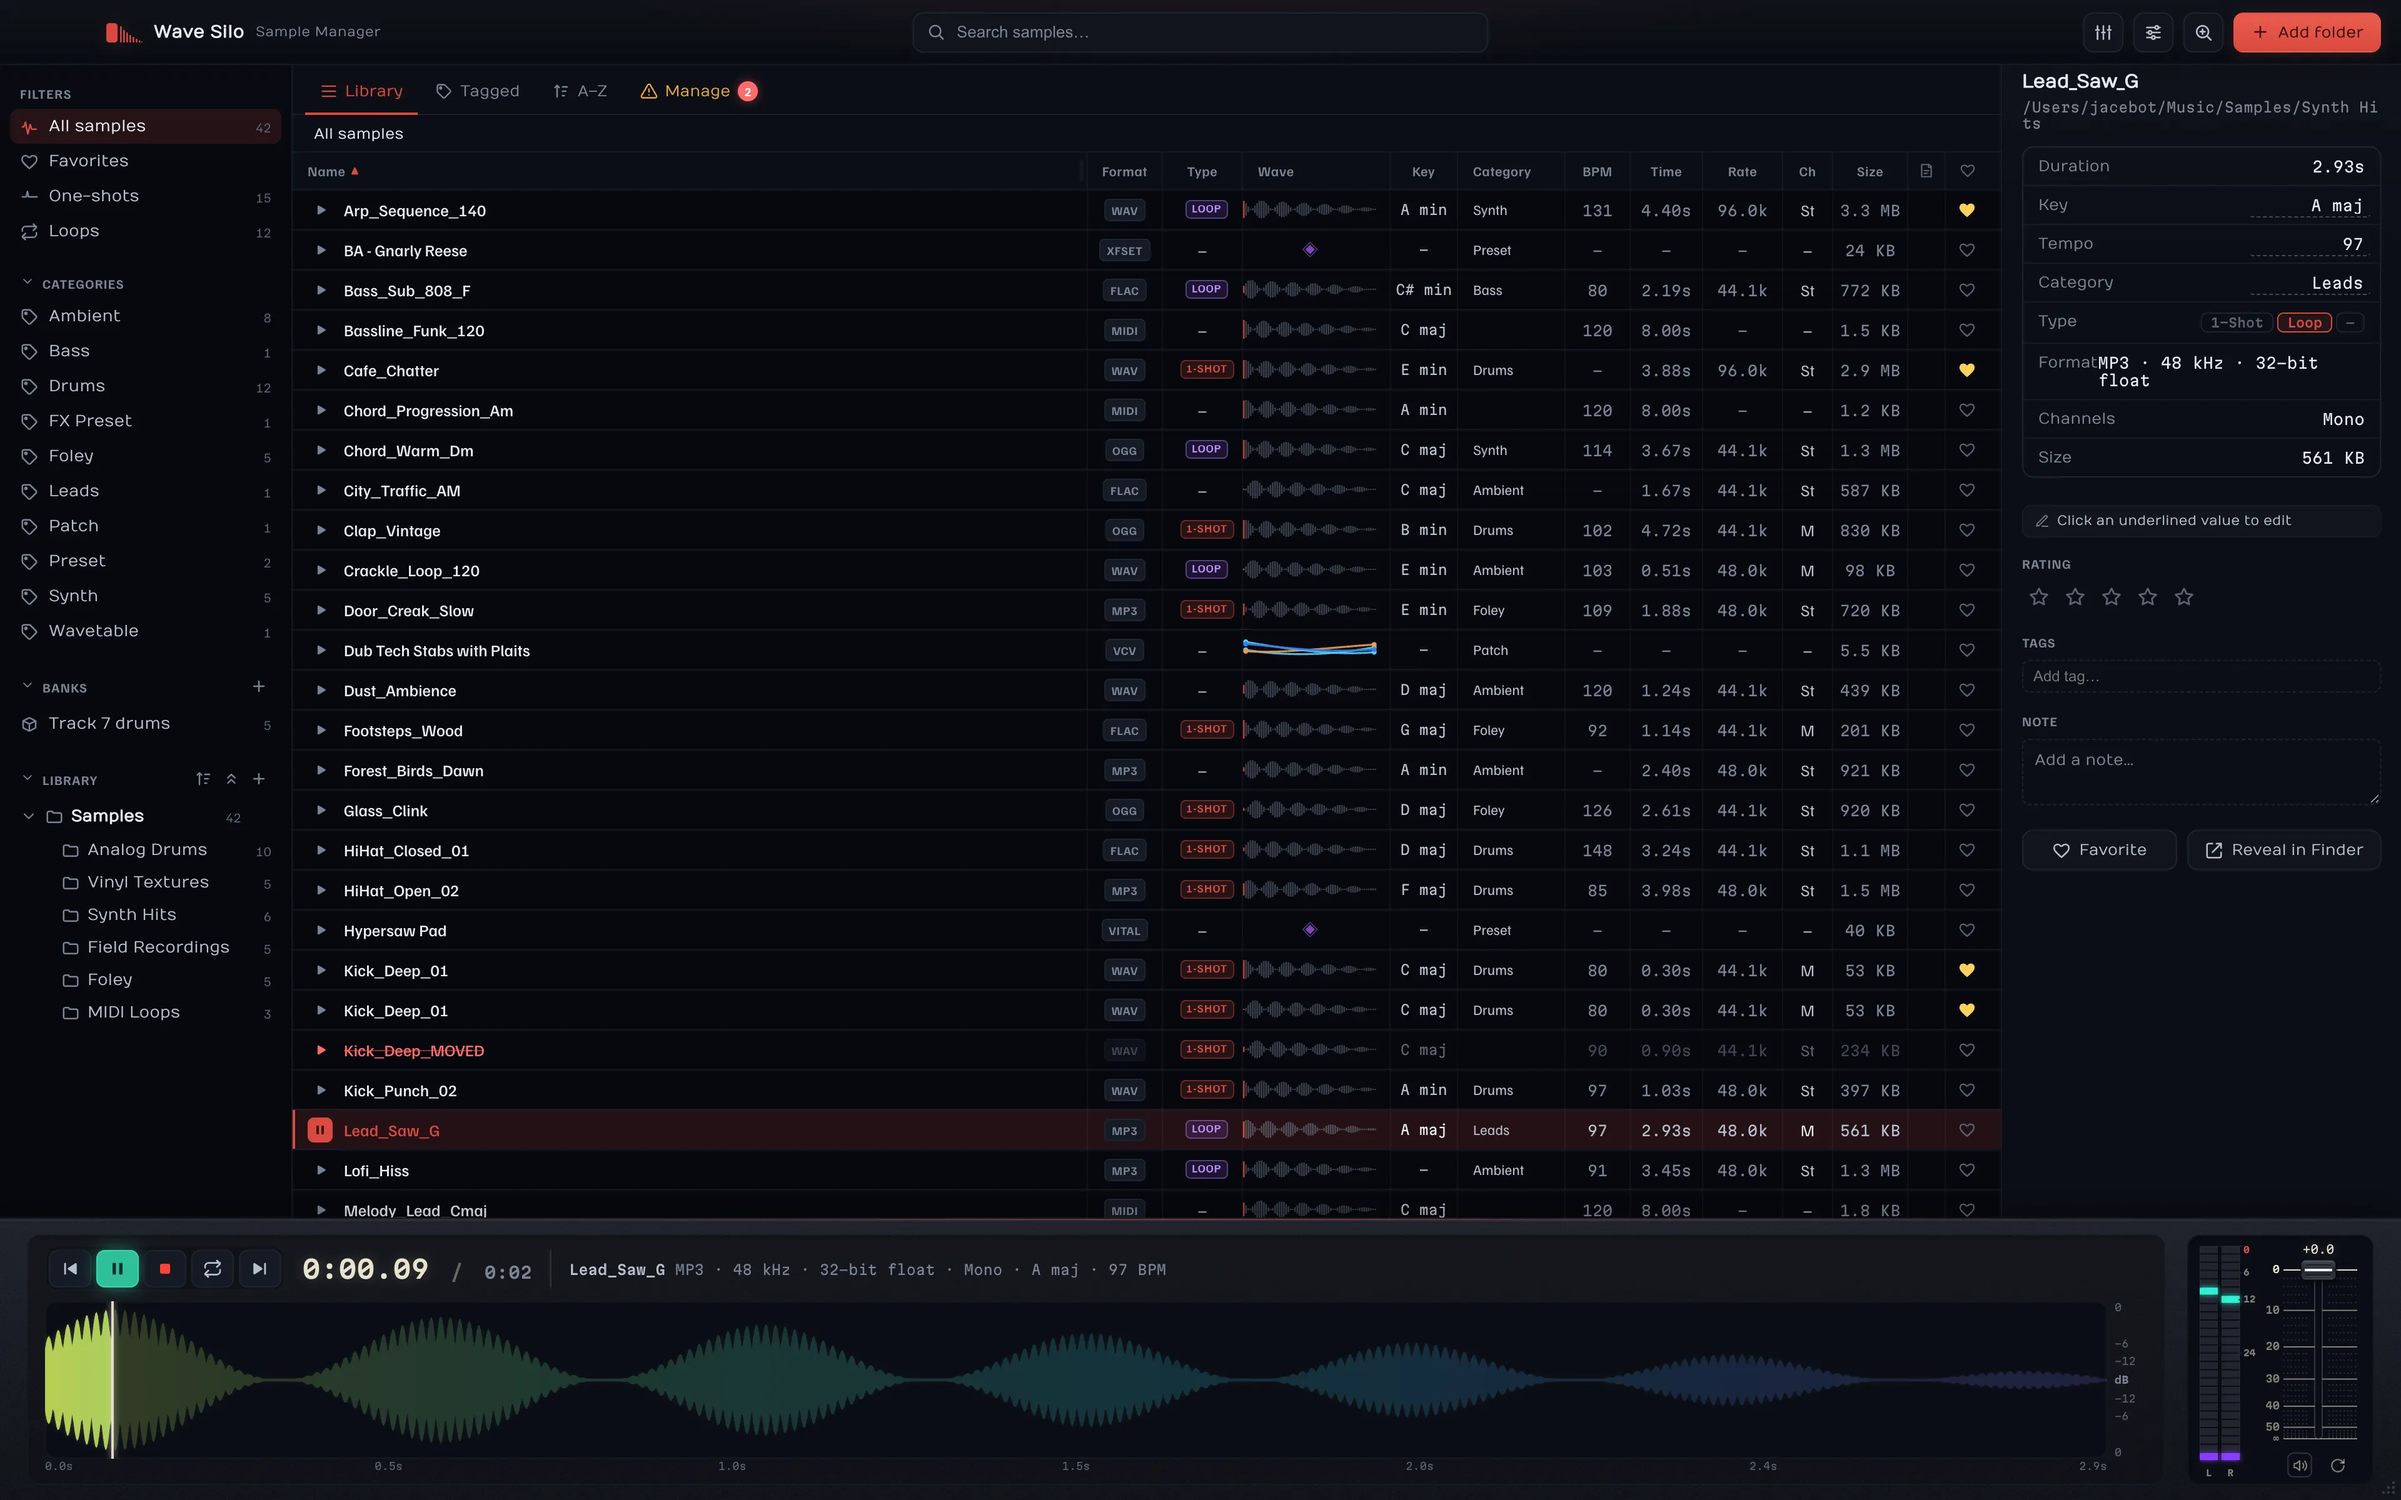
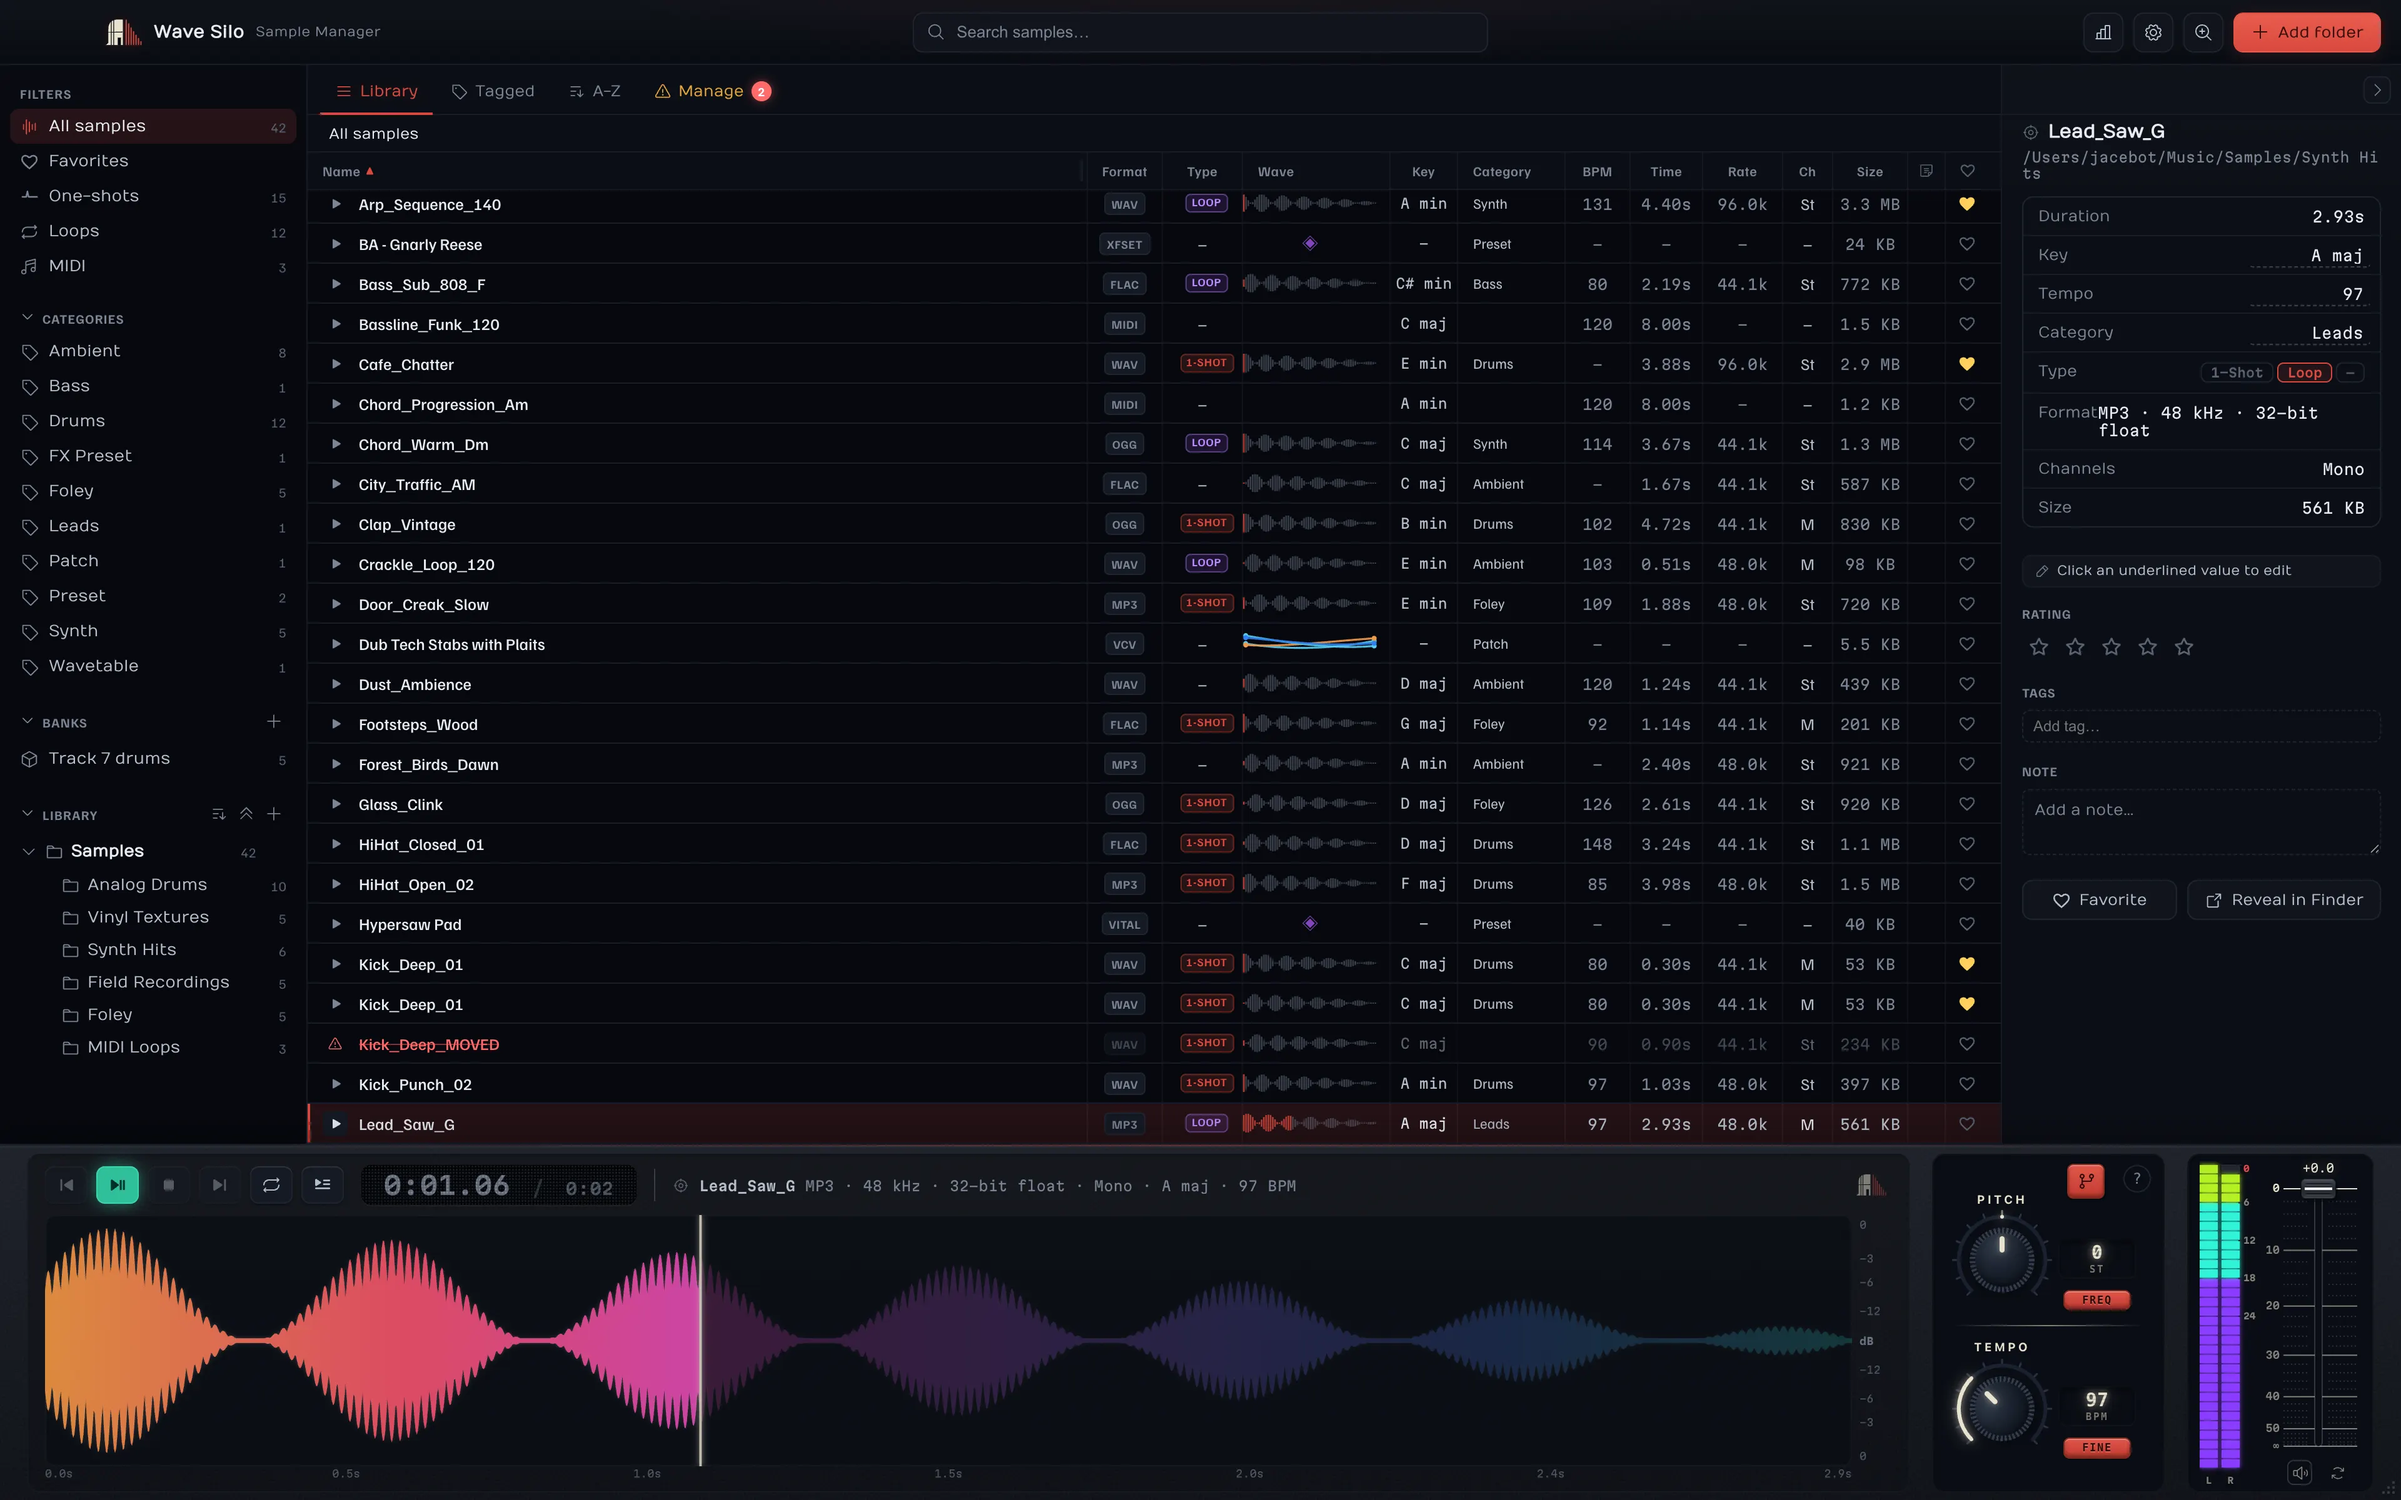
Theme-aware hero + refreshed shots; Buy Now pill pushes in on scroll
- Hero: swap to the new theme-aware pair (hero-dark/hero-light, shown by
  data-theme), softer right-edge fade (88%), no blank space; drop shot-hero
- Refresh the feature-section app shots (screenshot/screenshot-dark) with the
  latest UI
- Nav Buy Now: collapse to 0 width when hidden and grow/fade in on scroll so it
  shoves the links left ("pushes over") instead of sitting in reserved space;
  mobile-menu pill overrides the collapse

diff --git a/src/App.css b/src/App.css
@@ -101,12 +101,13 @@ main, .nav, .foot { position: relative; z-index: 1; }
 .nav nav { display: flex; align-items: center; gap: 26px; font-size: 14.5px; color: var(--muted); }
 .nav nav a:hover { color: var(--text); }
 .pill {
-  padding: 9px 18px; border-radius: 12px;
-  background: var(--accent); color: var(--btn-text) !important; font-weight: 700;
-  opacity: 0; transform: translateX(6px); pointer-events: none;
-  transition: opacity 0.28s ease, transform 0.28s ease, background 0.15s;
+  border-radius: 12px; background: var(--accent); color: var(--btn-text) !important; font-weight: 700;
+  white-space: nowrap; overflow: hidden; max-width: 0; padding: 9px 0;
+  opacity: 0; pointer-events: none;
+  transition: max-width 0.34s ease, padding 0.34s ease, opacity 0.3s ease, background 0.15s;
 }
-.nav.scrolled .pill { opacity: 1; transform: none; pointer-events: auto; }
+/* fades + grows in on scroll, shoving the nav links left ("pushes this over") */
+.nav.scrolled .pill { max-width: 200px; padding: 9px 18px; opacity: 1; pointer-events: auto; }
 .pill:hover { background: var(--accent-2); }
 
 /* hamburger (mobile only; shown via the max-width: 860px block) */
@@ -131,7 +132,7 @@ main, .nav, .foot { position: relative; z-index: 1; }
 }
 .nav-menu a { padding: 10px 12px; border-radius: 9px; color: var(--text); font-size: 15px; }
 .nav-menu a:hover { background: color-mix(in srgb, var(--accent) 12%, transparent); }
-.nav-menu .pill { opacity: 1; transform: none; pointer-events: auto; margin-top: 4px; text-align: center; color: var(--btn-text) !important; }
+.nav-menu .pill { max-width: none; padding: 11px 14px; opacity: 1; pointer-events: auto; margin-top: 4px; text-align: center; color: var(--btn-text) !important; }
 .nav-menu .pill:hover { background: var(--accent-2); }
 
 /* ---- hero ---- */
@@ -195,10 +196,15 @@ main, .nav, .foot { position: relative; z-index: 1; }
 .hero-shot {
   margin: 0; justify-self: start;
   width: 132%; max-width: none;
-  -webkit-mask-image: linear-gradient(to right, #000 76%, transparent 100%);
-          mask-image: linear-gradient(to right, #000 76%, transparent 100%);
+  -webkit-mask-image: linear-gradient(to right, #000 88%, transparent 100%);
+          mask-image: linear-gradient(to right, #000 88%, transparent 100%);
   animation: heroSlide 0.85s 0.12s ease both;
 }
+/* theme-aware hero: matching shot per theme (data-theme is always set by the app) */
+.hero-shot img { display: block; width: 100%; height: auto; }
+.hero-shot .hero-light { display: none; }
+:root[data-theme="light"] .hero-shot .hero-dark { display: none; }
+:root[data-theme="light"] .hero-shot .hero-light { display: block; }
 .shot.wide { max-width: 1000px; }
 
 /* ---- features ---- */

diff --git a/src/App.tsx b/src/App.tsx
@@ -3,7 +3,8 @@ import { Analytics } from '@vercel/analytics/react'
 import './App.css'
 import { LEGAL, type LegalDoc } from './legal'
 import shotDark from './assets/screenshot-dark.webp'
-import shotHero from './assets/shot-hero.webp'
+import heroDark from './assets/hero-dark.webp'
+import heroLight from './assets/hero-light.webp'
 import shotLight from './assets/screenshot.webp'
 import shotTagged from './assets/shot-tagged.webp'
 import shotRecovery from './assets/shot-recovery.webp'
@@ -222,7 +223,8 @@ export default function App() {
           </div>
 
           <div className="shot hero-shot">
-            <img src={shotHero} alt="Wave Silo dark library of samples with waveforms, BPM, key and categories, and a live colored waveform in the player" />
+            <img className="hero-dark" src={heroDark} alt="Wave Silo library of samples with waveforms, BPM, key and categories, and a live colored waveform in the player" />
+            <img className="hero-light" src={heroLight} alt="" aria-hidden="true" />
           </div>
         </section>
 
